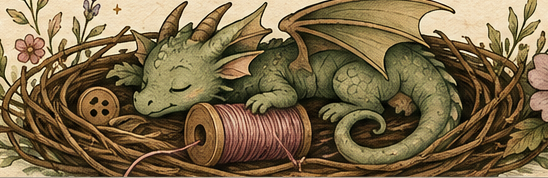
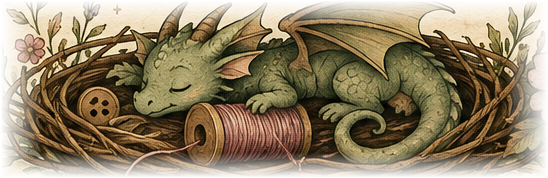
New share card, and fabrics.html stops advertising "Opening Late August"
v3: parchment, the green dragon, wordmark as live text. v2 was teal on
a site that is no longer teal.

The real find was next to it. CLAUDE.md claimed fabrics.html used v2.
It did not - build-fabrics.js was still emitting og-image.jpg, the V1
card with "Opening Late August" baked into its pixels. The shop opened
on Jul 1 and custom orders on Aug 8, so every share of the fabric
library has been showing a months-dead announcement. A page you can see
is not the same as the builder that writes it, and the note has been
corrected to say so.

Nothing on the new card can go stale, which now explicitly includes the
city: San Antonio stops being true around Nov 25, and the fabric banner
was already made with no city for that reason. v3 says veteran-owned,
small batch, one of a kind - all of which survive the move.

Two seams fixed on the way. The dragon's paper is a watercolour wash
rather than one flat tone, so mapping a corner pixel to #f0ddbc left
the middle at (241,226,195) against the card's (240,221,188) - a
visible box. hero-dragon.png now carries a feathered alpha edge, the
same trick paper-base.js uses on the corner sprays: with no boundary to
see, the residue reads as grain. That fixes the site hero too, since
both use the same file.

diff --git a/tools/build-og-card.js b/tools/build-og-card.js
@@ -1,0 +1,101 @@
+// The social share card — the picture that appears when someone pastes the site
+// link into Facebook, a message, Pinterest or a DM. 1200x630.
+//
+//   node tools/build-og-card.js          # writes build/og-card.html
+//   then render it at 1200x630 and save as assets/og-image-v3.jpg
+//
+// ⚠ A NEW FILENAME EVERY TIME, NEVER A REPLACEMENT. Facebook caches these hard
+// and keys the cache on the URL, so overwriting og-image-v2.jpg would leave every
+// existing share showing the old card indefinitely. v3 is a new file for that
+// reason alone.
+//
+// ⛔ NOTHING ON THIS CARD MAY GO STALE. It is an image: once it is shared, no
+// amount of editing HTML changes what people see. The v1 card said "Opening Late
+// August" and was still the Facebook preview months after the shop opened — and
+// as of 2026-10-14 fabrics.html was STILL pointing at it.
+//   - no dates
+//   - no "opening soon", no season, no year
+//   - ⚠ AND NO CITY. San Antonio stops being true around 2026-11-25. The fabric
+//     banner was made with no city for exactly this reason, so it survives the
+//     move; the share card gets the same treatment.
+//
+// 📌 Art is cropped WITH ITS OWN PAPER (the print kit's trick), so the background
+// must be the SAME FLAT #f0ddbc or the crops show as boxes. The corner sprays get
+// the same inner-edge feather paper-base.js uses.
+const fs = require("fs");
+const path = require("path");
+
+const ROOT = path.join(__dirname, "..");
+const OUT = path.join(ROOT, "tools", "print-kit", "build");
+if (!fs.existsSync(OUT)) fs.mkdirSync(OUT, { recursive: true });
+
+const KIT = path.join(OUT, "kit").replace(/\\/g, "/");
+const kit = (f) => "file:///" + KIT + "/" + f;
+const asset = (f) => "file:///" + path.join(ROOT, "assets", f).replace(/\\/g, "/");
+
+for (const f of ["corner-tl.png", "corner-tr.png", "corner-bl.png", "corner-br.png"]) {
+  if (!fs.existsSync(path.join(KIT, f))) {
+    console.error("⚠  missing " + f + " — run `node cut-frame.js` in tools/print-kit first.");
+    process.exitCode = 1;
+    return;
+  }
+}
+
+const C = 300; // corner spray, scaled up from the kit's native 250 for a wider canvas
+
+const html = `<!DOCTYPE html><html lang="en"><head><meta charset="utf-8">
+<title>Share card</title>
+<link rel="preconnect" href="https://fonts.googleapis.com">
+<link rel="preconnect" href="https://fonts.gstatic.com" crossorigin>
+<link href="https://fonts.googleapis.com/css2?family=Cormorant+Garamond:ital,wght@0,600;0,700;1,500&family=Nunito:wght@700;800&display=swap" rel="stylesheet">
+<style>
+  *{box-sizing:border-box;margin:0;padding:0;-webkit-print-color-adjust:exact;print-color-adjust:exact;}
+  html,body{width:1200px;height:630px;overflow:hidden;}
+  .card{position:relative;width:1200px;height:630px;background:#f0ddbc;
+    font-family:'Nunito',sans-serif;display:flex;flex-direction:column;
+    align-items:center;justify-content:center;}
+  /* Same feather as paper-base.js: without it each crop reads as a paler box. */
+  .c{position:absolute;width:${C}px;height:${C}px;background-size:${C}px ${C}px;
+     -webkit-mask-composite:source-in;mask-composite:intersect;}
+  .tl{left:0;top:0;background-image:url('${kit("corner-tl.png")}');
+    -webkit-mask-image:linear-gradient(to right,#000 66%,transparent),linear-gradient(to bottom,#000 66%,transparent);
+    mask-image:linear-gradient(to right,#000 66%,transparent),linear-gradient(to bottom,#000 66%,transparent);}
+  .tr{right:0;top:0;background-image:url('${kit("corner-tr.png")}');
+    -webkit-mask-image:linear-gradient(to left,#000 66%,transparent),linear-gradient(to bottom,#000 66%,transparent);
+    mask-image:linear-gradient(to left,#000 66%,transparent),linear-gradient(to bottom,#000 66%,transparent);}
+  .bl{left:0;bottom:0;background-image:url('${kit("corner-bl.png")}');
+    -webkit-mask-image:linear-gradient(to right,#000 66%,transparent),linear-gradient(to top,#000 66%,transparent);
+    mask-image:linear-gradient(to right,#000 66%,transparent),linear-gradient(to top,#000 66%,transparent);}
+  .br{right:0;bottom:0;background-image:url('${kit("corner-br.png")}');
+    -webkit-mask-image:linear-gradient(to left,#000 66%,transparent),linear-gradient(to top,#000 66%,transparent);
+    mask-image:linear-gradient(to left,#000 66%,transparent),linear-gradient(to top,#000 66%,transparent);}
+  .dragon{width:360px;height:auto;display:block;margin-bottom:6px;}
+  .word{font-family:'Cormorant Garamond',serif;font-weight:700;color:#4e5839;line-height:0.98;}
+  .big{font-size:86px;letter-spacing:0.01em;}
+  /* ⚠ "AND", never "&". The card art itself spells it with an ampersand, which is
+     exactly why this is live text instead of a picture of the name. */
+  .sub{font-size:33px;letter-spacing:0.3em;margin-top:6px;}
+  .rule{display:flex;align-items:center;justify-content:center;gap:16px;margin:20px 0 14px;width:460px;}
+  .rule i{flex:1;height:1.6px;background:linear-gradient(90deg,transparent,#938858,transparent);}
+  .rule b{width:11px;height:11px;background:#7b322c;transform:rotate(45deg);}
+  .tag{font-family:'Cormorant Garamond',serif;font-style:italic;font-weight:500;
+       font-size:36px;color:#7b322c;}
+  .badges{margin-top:22px;font-size:16px;font-weight:800;letter-spacing:0.17em;
+          text-transform:uppercase;color:#938858;}
+</style></head><body>
+<div class="card">
+  <span class="c tl"></span><span class="c tr"></span>
+  <span class="c bl"></span><span class="c br"></span>
+  <img class="dragon" src="${asset("hero-dragon.png")}" alt="">
+  <div class="word big">DRAGON</div>
+  <div class="word sub">INK AND THREAD</div>
+  <div class="rule"><i></i><b></b><i></i></div>
+  <div class="tag">Handmade heirlooms for everyday wonder</div>
+  <div class="badges">Veteran&#8209;owned &#183; Small batch &#183; One of a kind</div>
+</div>
+</body></html>`;
+
+const file = path.join(OUT, "og-card.html");
+fs.writeFileSync(file, html, "utf8");
+console.log("wrote " + file);
+console.log("Next: render it at 1200x630 and save as assets/og-image-v3.jpg");

diff --git a/index.html b/index.html
@@ -20,7 +20,7 @@
   <meta property="og:title" content="Dragon Ink and Thread — Handmade Sewn Goods in Texas" />
   <meta property="og:description" content="Handmade, small-batch totes, bows, scrunchies, pet bandanas and book sleeves from a veteran-owned San Antonio shop — now open. Join the Nest for first look at new pieces." />
   <meta property="og:url" content="https://www.dragoninkandthread.com/" />
-  <meta property="og:image" content="https://www.dragoninkandthread.com/assets/og-image-v2.jpg" />
+  <meta property="og:image" content="https://www.dragoninkandthread.com/assets/og-image-v3.jpg" />
   <meta property="og:image:width" content="1200" />
   <meta property="og:image:height" content="630" />
   <meta property="og:image:alt" content="Dragon Ink and Thread — a teal stitched dragon on a floral pattern" />
@@ -29,7 +29,7 @@
   <meta name="twitter:card" content="summary_large_image" />
   <meta name="twitter:title" content="Dragon Ink and Thread — Handmade Sewn Goods in Texas" />
   <meta name="twitter:description" content="Handmade, small-batch totes, bows, scrunchies, pet bandanas and book sleeves from a veteran-owned San Antonio shop — now open." />
-  <meta name="twitter:image" content="https://www.dragoninkandthread.com/assets/og-image-v2.jpg" />
+  <meta name="twitter:image" content="https://www.dragoninkandthread.com/assets/og-image-v3.jpg" />
 
   <link rel="icon" href="/favicon.ico" sizes="32x32" />
   <link rel="icon" type="image/png" sizes="96x96" href="/assets/favicon-96.png" />
@@ -49,7 +49,7 @@
     "description": "Veteran-owned, small-batch handmade sewn goods — totes, bows, scrunchies, pet bandanas and book sleeves — made in San Antonio, Texas.",
     "url": "https://www.dragoninkandthread.com/",
     "logo": "https://www.dragoninkandthread.com/assets/logo.png",
-    "image": "https://www.dragoninkandthread.com/assets/og-image-v2.jpg",
+    "image": "https://www.dragoninkandthread.com/assets/og-image-v3.jpg",
     "email": "dragoninkandthread@gmail.com",
     "address": {
       "@type": "PostalAddress",

diff --git a/patterns.html b/patterns.html
@@ -14,7 +14,7 @@
   <meta property="og:title" content="Free Sewing Patterns — Beginner-Friendly" />
   <meta property="og:description" content="Straight lines only, every measurement written out, free to download. From a small handmade shop in San Antonio." />
   <meta property="og:url" content="https://www.dragoninkandthread.com/patterns.html" />
-  <meta property="og:image" content="https://www.dragoninkandthread.com/assets/og-image-v2.jpg" />
+  <meta property="og:image" content="https://www.dragoninkandthread.com/assets/og-image-v3.jpg" />
   <meta property="og:image:width" content="1200" />
   <meta property="og:image:height" content="630" />
   <meta property="og:image:alt" content="Dragon Ink and Thread" />
@@ -22,7 +22,7 @@
   <meta name="twitter:card" content="summary_large_image" />
   <meta name="twitter:title" content="Free Sewing Patterns — Beginner-Friendly" />
   <meta name="twitter:description" content="Free beginner sewing patterns — straight lines only, free to download." />
-  <meta name="twitter:image" content="https://www.dragoninkandthread.com/assets/og-image-v2.jpg" />
+  <meta name="twitter:image" content="https://www.dragoninkandthread.com/assets/og-image-v3.jpg" />
 
   <link rel="icon" href="/favicon.ico" sizes="32x32" />
   <link rel="icon" type="image/png" sizes="96x96" href="/assets/favicon-96.png" />

diff --git a/custom.html b/custom.html
@@ -13,12 +13,12 @@
   <meta property="og:title" content="Custom Orders | Dragon Ink and Thread" />
   <meta property="og:description" content="Your print, your size, your person — a handmade piece made just for you." />
   <meta property="og:url" content="https://www.dragoninkandthread.com/custom.html" />
-  <meta property="og:image" content="https://www.dragoninkandthread.com/assets/og-image-v2.jpg" />
+  <meta property="og:image" content="https://www.dragoninkandthread.com/assets/og-image-v3.jpg" />
 
   <meta name="twitter:card" content="summary_large_image" />
   <meta name="twitter:title" content="Custom Orders | Dragon Ink and Thread" />
   <meta name="twitter:description" content="Your print, your size, your person — a handmade piece made just for you." />
-  <meta name="twitter:image" content="https://www.dragoninkandthread.com/assets/og-image-v2.jpg" />
+  <meta name="twitter:image" content="https://www.dragoninkandthread.com/assets/og-image-v3.jpg" />
 
   <link rel="icon" href="/favicon.ico" sizes="32x32" />
   <link rel="icon" type="image/png" sizes="96x96" href="/assets/favicon-96.png" />

diff --git a/fabrics.html b/fabrics.html
@@ -13,11 +13,11 @@
   <meta property="og:title" content="Fabric Library | Dragon Ink and Thread" />
   <meta property="og:description" content="76 fabrics on the shelf right now — pick one for your custom piece." />
   <meta property="og:url" content="https://www.dragoninkandthread.com/fabrics.html" />
-  <meta property="og:image" content="https://www.dragoninkandthread.com/assets/og-image.jpg" />
+  <meta property="og:image" content="https://www.dragoninkandthread.com/assets/og-image-v3.jpg" />
   <meta name="twitter:card" content="summary_large_image" />
   <meta name="twitter:title" content="Fabric Library | Dragon Ink and Thread" />
   <meta name="twitter:description" content="76 fabrics on the shelf right now — pick one for your custom piece." />
-  <meta name="twitter:image" content="https://www.dragoninkandthread.com/assets/og-image.jpg" />
+  <meta name="twitter:image" content="https://www.dragoninkandthread.com/assets/og-image-v3.jpg" />
 
   <link rel="icon" href="/favicon.ico" sizes="32x32" />
   <link rel="icon" type="image/png" sizes="96x96" href="/assets/favicon-96.png" />

diff --git a/tools/build-patterns.js b/tools/build-patterns.js
@@ -131,7 +131,7 @@ const head = (p, canonical) => {
   <meta name="twitter:card" content="summary_large_image" />
   <meta name="twitter:title" content="${esc(p.ogTitle)}" />
   <meta name="twitter:description" content="${esc(p.twitterDesc)}" />
-  <meta name="twitter:image" content="${SITE}/assets/og-image-v2.jpg" />
+  <meta name="twitter:image" content="${SITE}/assets/og-image-v3.jpg" />
 
   <link rel="icon" href="/favicon.ico" sizes="32x32" />
   <link rel="icon" type="image/png" sizes="96x96" href="/assets/favicon-96.png" />
@@ -458,7 +458,7 @@ const indexPage = () => {
     ogDesc:
       "Straight lines only, every measurement written out, free to download. From a small handmade shop in San Antonio.",
     twitterDesc: "Free beginner sewing patterns — straight lines only, free to download.",
-    pin: { url: "assets/og-image-v2.jpg", w: 1200, h: 630, alt: "Dragon Ink and Thread" },
+    pin: { url: "assets/og-image-v3.jpg", w: 1200, h: 630, alt: "Dragon Ink and Thread" },
   };
 
   return `<!DOCTYPE html>

diff --git a/tools/build-fabrics.js b/tools/build-fabrics.js
@@ -105,11 +105,11 @@ const html = `<!DOCTYPE html>
   <meta property="og:title" content="Fabric Library | Dragon Ink and Thread" />
   <meta property="og:description" content="${total} fabrics on the shelf right now — pick one for your custom piece." />
   <meta property="og:url" content="${SITE}/fabrics.html" />
-  <meta property="og:image" content="${SITE}/assets/og-image.jpg" />
+  <meta property="og:image" content="${SITE}/assets/og-image-v3.jpg" />
   <meta name="twitter:card" content="summary_large_image" />
   <meta name="twitter:title" content="Fabric Library | Dragon Ink and Thread" />
   <meta name="twitter:description" content="${total} fabrics on the shelf right now — pick one for your custom piece." />
-  <meta name="twitter:image" content="${SITE}/assets/og-image.jpg" />
+  <meta name="twitter:image" content="${SITE}/assets/og-image-v3.jpg" />
 
   <link rel="icon" href="/favicon.ico" sizes="32x32" />
   <link rel="icon" type="image/png" sizes="96x96" href="/assets/favicon-96.png" />

diff --git a/shop.html b/shop.html
@@ -13,7 +13,7 @@
   <meta property="og:title" content="Shop the Collection | Dragon Ink and Thread" />
   <meta property="og:description" content="The full collection of handmade totes, bows, scrunchies, pet bandanas and book sleeves — one of a kind, sewn in San Antonio, Texas, and ready to ship." />
   <meta property="og:url" content="https://www.dragoninkandthread.com/shop.html" />
-  <meta property="og:image" content="https://www.dragoninkandthread.com/assets/og-image-v2.jpg" />
+  <meta property="og:image" content="https://www.dragoninkandthread.com/assets/og-image-v3.jpg" />
 
   <link rel="icon" href="/favicon.ico" sizes="32x32" />
   <link rel="icon" type="image/png" sizes="96x96" href="/assets/favicon-96.png" />

diff --git a/pattern-dog-neckerchief.html b/pattern-dog-neckerchief.html
@@ -22,7 +22,7 @@
   <meta name="twitter:card" content="summary_large_image" />
   <meta name="twitter:title" content="Free Dog Bandana Sewing Pattern — Elastic, Sizes XS to XL" />
   <meta name="twitter:description" content="An elastic dog neckerchief that pulls on over the head. Free to download, sizes XS to XL." />
-  <meta name="twitter:image" content="https://www.dragoninkandthread.com/assets/og-image-v2.jpg" />
+  <meta name="twitter:image" content="https://www.dragoninkandthread.com/assets/og-image-v3.jpg" />
 
   <link rel="icon" href="/favicon.ico" sizes="32x32" />
   <link rel="icon" type="image/png" sizes="96x96" href="/assets/favicon-96.png" />

diff --git a/pattern-sailor-bow.html b/pattern-sailor-bow.html
@@ -22,7 +22,7 @@
   <meta name="twitter:card" content="summary_large_image" />
   <meta name="twitter:title" content="Free Sailor Bow Sewing Pattern — Fabric Hair Bow with Tails" />
   <meta name="twitter:description" content="A looped fabric hair bow with pointed tails. Free to download, full-size pieces." />
-  <meta name="twitter:image" content="https://www.dragoninkandthread.com/assets/og-image-v2.jpg" />
+  <meta name="twitter:image" content="https://www.dragoninkandthread.com/assets/og-image-v3.jpg" />
 
   <link rel="icon" href="/favicon.ico" sizes="32x32" />
   <link rel="icon" type="image/png" sizes="96x96" href="/assets/favicon-96.png" />

diff --git a/pattern.html b/pattern.html
@@ -22,7 +22,7 @@
   <meta name="twitter:card" content="summary_large_image" />
   <meta name="twitter:title" content="Free Chunky Scrunchie Sewing Pattern — Beginner-Friendly" />
   <meta name="twitter:description" content="One rectangle, one elastic, about twenty minutes. Free to download." />
-  <meta name="twitter:image" content="https://www.dragoninkandthread.com/assets/og-image-v2.jpg" />
+  <meta name="twitter:image" content="https://www.dragoninkandthread.com/assets/og-image-v3.jpg" />
 
   <link rel="icon" href="/favicon.ico" sizes="32x32" />
   <link rel="icon" type="image/png" sizes="96x96" href="/assets/favicon-96.png" />

diff --git a/tools/build-pin-images.js b/tools/build-pin-images.js
@@ -319,7 +319,7 @@ async function fbCustomOrders() {
 }
 
 /* The free pattern (2026-08-26).
-   pattern.html shipped with og:image pointing at og-image-v2.jpg — the
+   pattern.html shipped with og:image pointing at og-image-v3.jpg — the
    generic brand card, 1200x630 landscape — and og:title "A free sewing
    pattern". So a pin of the page showed a LOGO, in the wrong shape, titled
    nothing anyone searches for. Nobody saves a logo.
